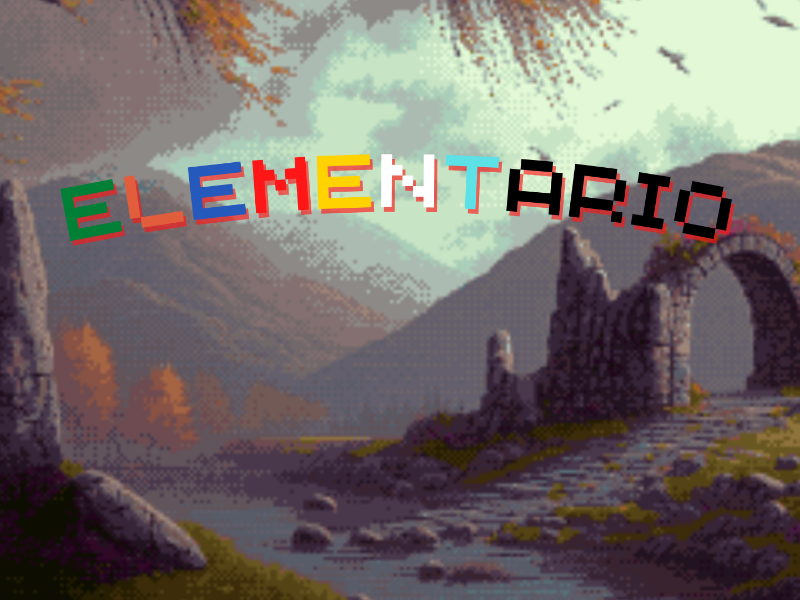
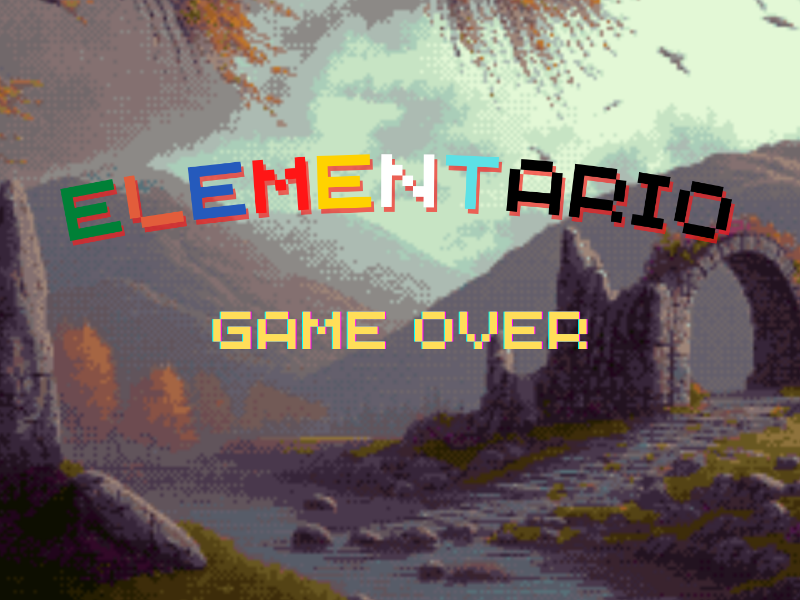
Add new buttons to title and game over screens

Changed region(s): [[0.25, 0.51, 0.75, 0.6]]

diff --git a/static/hello-world/src/TitleScene.js b/static/hello-world/src/TitleScene.js
@@ -1,29 +1,52 @@
 import Phaser from "phaser";
 
+import { invoke } from "@forge/bridge";
+
 import titleBackgroundImg from "./assets/title/TitleBackground.png";
 import startHoverImg from "./assets/title/StartHover.png";
 import startNeutralImg from "./assets/title/StartNeutral.png";
-import buttonImg from "./assets/title/DialogueBoxSimple.png";
 
 export default class TitleScene extends Phaser.Scene {
 
   constructor() {
     super("TitleScene");
+    this.projects = [];
+  }
+
+  async loadRecentJiraProjects() {
+    invoke("getRecentProjects", { expand: "urls" }).then(({ data }) => {
+      console.log("Project data received!");
+      data.values.forEach((project) => {
+        this.projects[project.key] = {
+          name: project.name,
+          id: project.id,
+        };
+      });
+      console.log(this.projects);
+    });
+  }
+
+  async loadProjectIssues() {
+    invoke("getIssuesByProject", { project: "DU2" }).then(({ data }) => {
+      console.log("Issue data received!");
+      console.log(data);
+    });
   }
 
   preload() {
     this.load.image("title-background", titleBackgroundImg);
     this.load.image("start-hover", startHoverImg);
     this.load.image("start-neutral", startNeutralImg);
-    this.load.image("button", buttonImg);
   }
 
   create() {
     const titleBackground = this.add.image(0, 0, "title-background")
       .setOrigin(0, 0);
+    
     const startHover = this.add.image(300, 350, "start-hover")
+      .setOrigin(0, 0)
       .setInteractive()
-      .on("pointermove", () => {
+      .on("pointerout", () => {
         startHover.setActive(false).setVisible(false);
         startNeutral.setActive(true).setVisible(true);
       })
@@ -31,21 +54,19 @@ export default class TitleScene extends Phaser.Scene {
         this.scene.start("MainScene").launch("HUDScene");
       })
       .setActive(false).setVisible(false);
+
     const startNeutral = this.add.image(300, 350, "start-neutral")
+      .setOrigin(0, 0)
       .setInteractive()
       .on("pointerover", () => {
         startNeutral.setActive(false).setVisible(false);
         startHover.setActive(true).setVisible(true);
-      })
-    /*
-    const startButton = this.add.image(300, 300, "button")
-      .setInteractive()
-      .on("pointerdown", () => {
-        this.scene.start("MainScene").launch("HUDScene");
       });
-    const startText = this.add.text(
-      300, 300, "Start", { font: "20px Courier", fill: "#000000" });
-    */
+
+    // Loading Jira projects via Forge API
+    this.loadRecentJiraProjects();
+
+    this.loadProjectIssues();
   }
 
 }

diff --git a/static/hello-world/src/GameOverScene.js b/static/hello-world/src/GameOverScene.js
@@ -1,7 +1,8 @@
 import Phaser from "phaser";
 
 import gameOverBackgroundImg from "./assets/game-over/GameOverBackground.png";
-import buttonImg from "./assets/title/DialogueBoxSimple.png";
+import restartHoverImg from "./assets/game-over/RestartHover.png";
+import restartNeutralImg from "./assets/game-over/RestartNeutral.png";
 
 export default class GameOverScene extends Phaser.Scene {
 
@@ -11,25 +12,33 @@ export default class GameOverScene extends Phaser.Scene {
 
   preload() {
     this.load.image("game-over-background", gameOverBackgroundImg);
-    this.load.image("button", buttonImg);
+    this.load.image("restart-hover", restartHoverImg);
+    this.load.image("restart-neutral", restartNeutralImg);
   }
 
   create() {
     const gameOverBackground = this.add.image(0, 0, "game-over-background")
       .setOrigin(0, 0);
-    const gameOverText = this.add.text(
-      300, 120, "Game Over", { font: "20px Courier", fill: "#000000" });
-    const restartButton = this.add.image(300, 300, "button")
+      
+      const restartHover = this.add.image(300, 350, "restart-hover")
+      .setOrigin(0, 0)
       .setInteractive()
+      .on("pointerout", () => {
+        restartHover.setActive(false).setVisible(false);
+        restartNeutral.setActive(true).setVisible(true);
+      })
       .on("pointerdown", () => {
-        this.scene.stop();
-        const hudScene = this.scene.get("HUDScene");
-        hudScene.scene.restart();
-        const mainScene = this.scene.get("MainScene");
-        mainScene.scene.restart();
-        });
-    const restartText = this.add.text(
-      300, 300, "Restart", { font: "20px Courier", fill: "#000000" });
+        this.scene.start("MainScene").launch("HUDScene");
+      })
+      .setActive(false).setVisible(false);
+
+    const restartNeutral = this.add.image(300, 350, "restart-neutral")
+      .setOrigin(0, 0)
+      .setInteractive()
+      .on("pointerover", () => {
+        restartNeutral.setActive(false).setVisible(false);
+        restartHover.setActive(true).setVisible(true);
+      });
   }
 
 }
